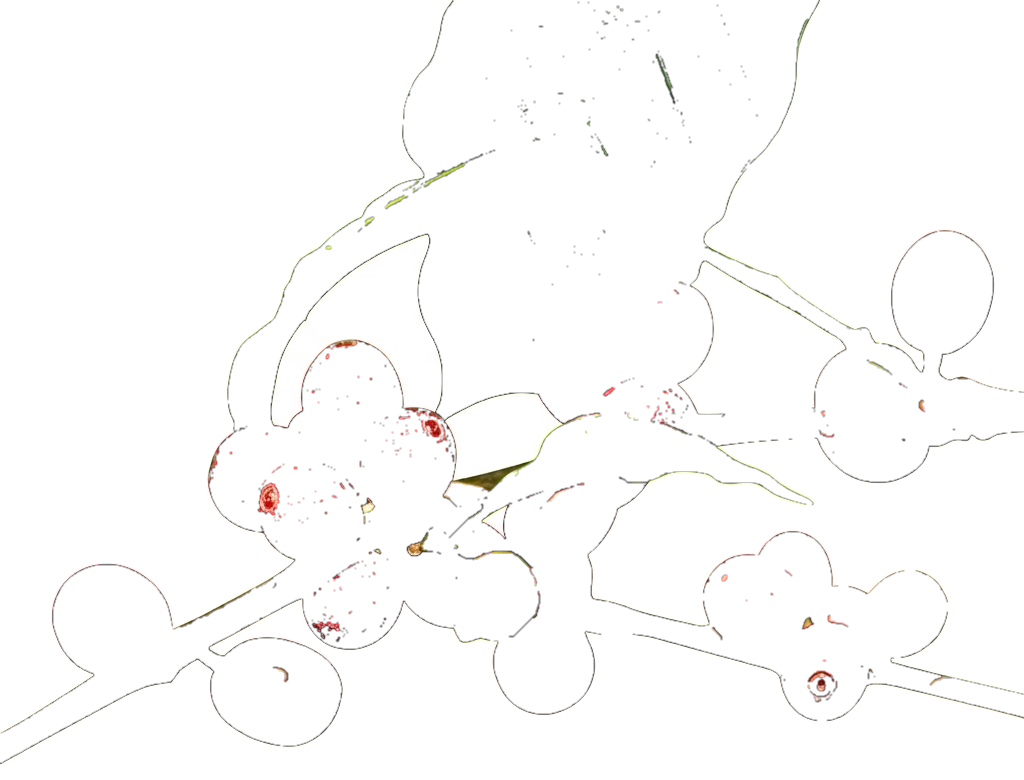
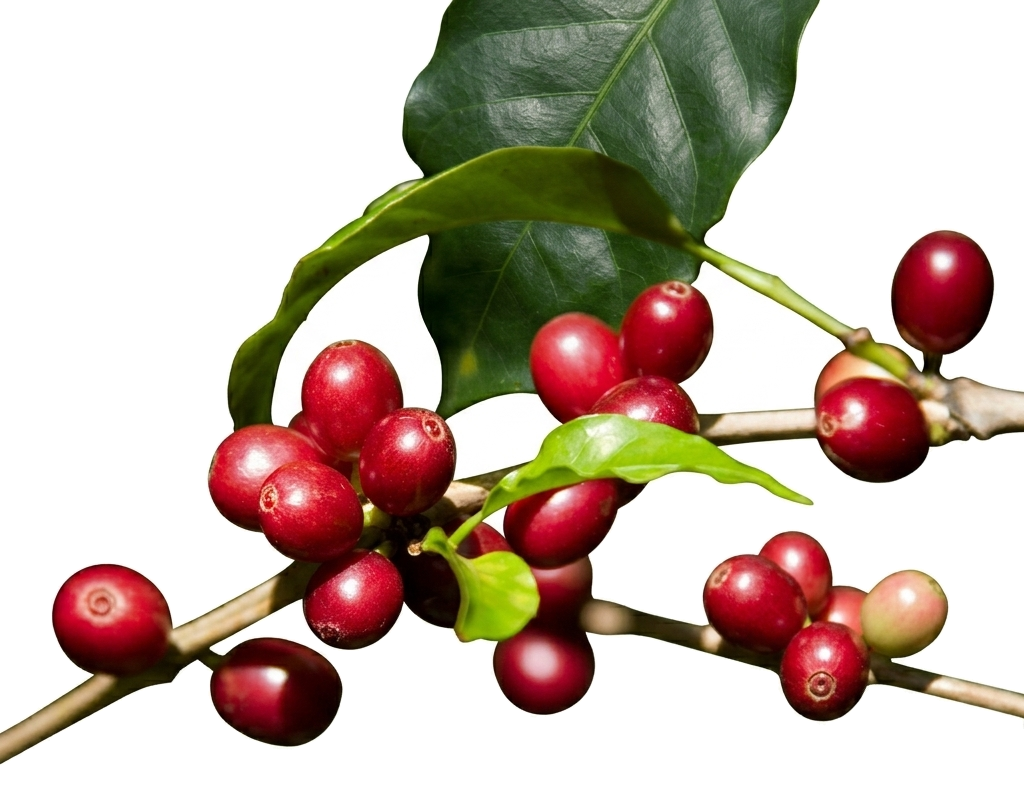
fix(services): ganti asset ke fresh_cherries_branch.png untuk bypass cache browser dan tampilkan ceri merah pada ranting

diff --git a/src/components/landing/ServicesShowcaseSection.tsx b/src/components/landing/ServicesShowcaseSection.tsx
@@ -150,8 +150,8 @@ export const ServicesShowcaseSection: React.FC = () => {
               {/* Image Frame */}
               <div className="relative w-full max-w-md aspect-square flex items-center justify-center p-4 z-10">
                 <img
-                  src="/images/coffee_cherries.png"
-                  alt="Buah Ceri Kopi Merah Segar Hasil Petik Kebun"
+                  src="/images/fresh_cherries_branch.png"
+                  alt="Buah Ceri Kopi Merah Segar Petik Kebun"
                   className="w-full h-auto max-h-[360px] object-contain drop-shadow-[0_20px_45px_rgba(239,68,68,0.35)] animate-cct-float"
                 />
               </div>
